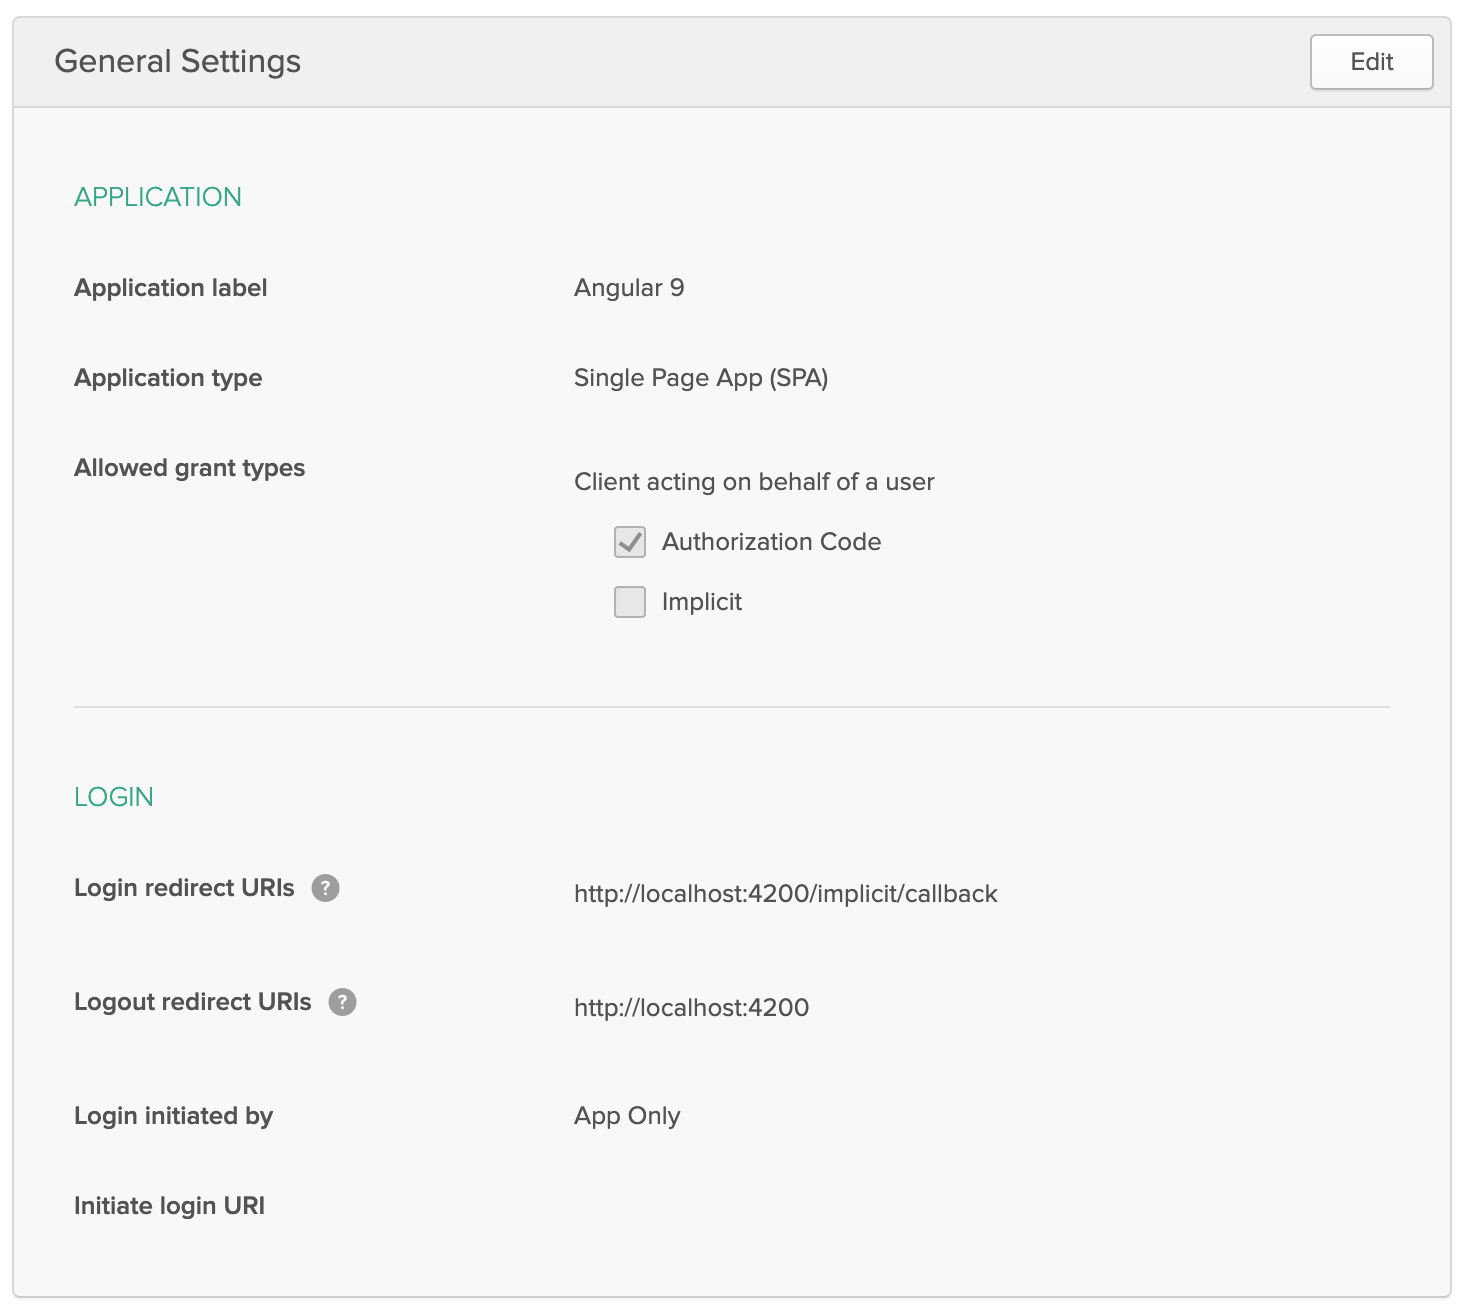
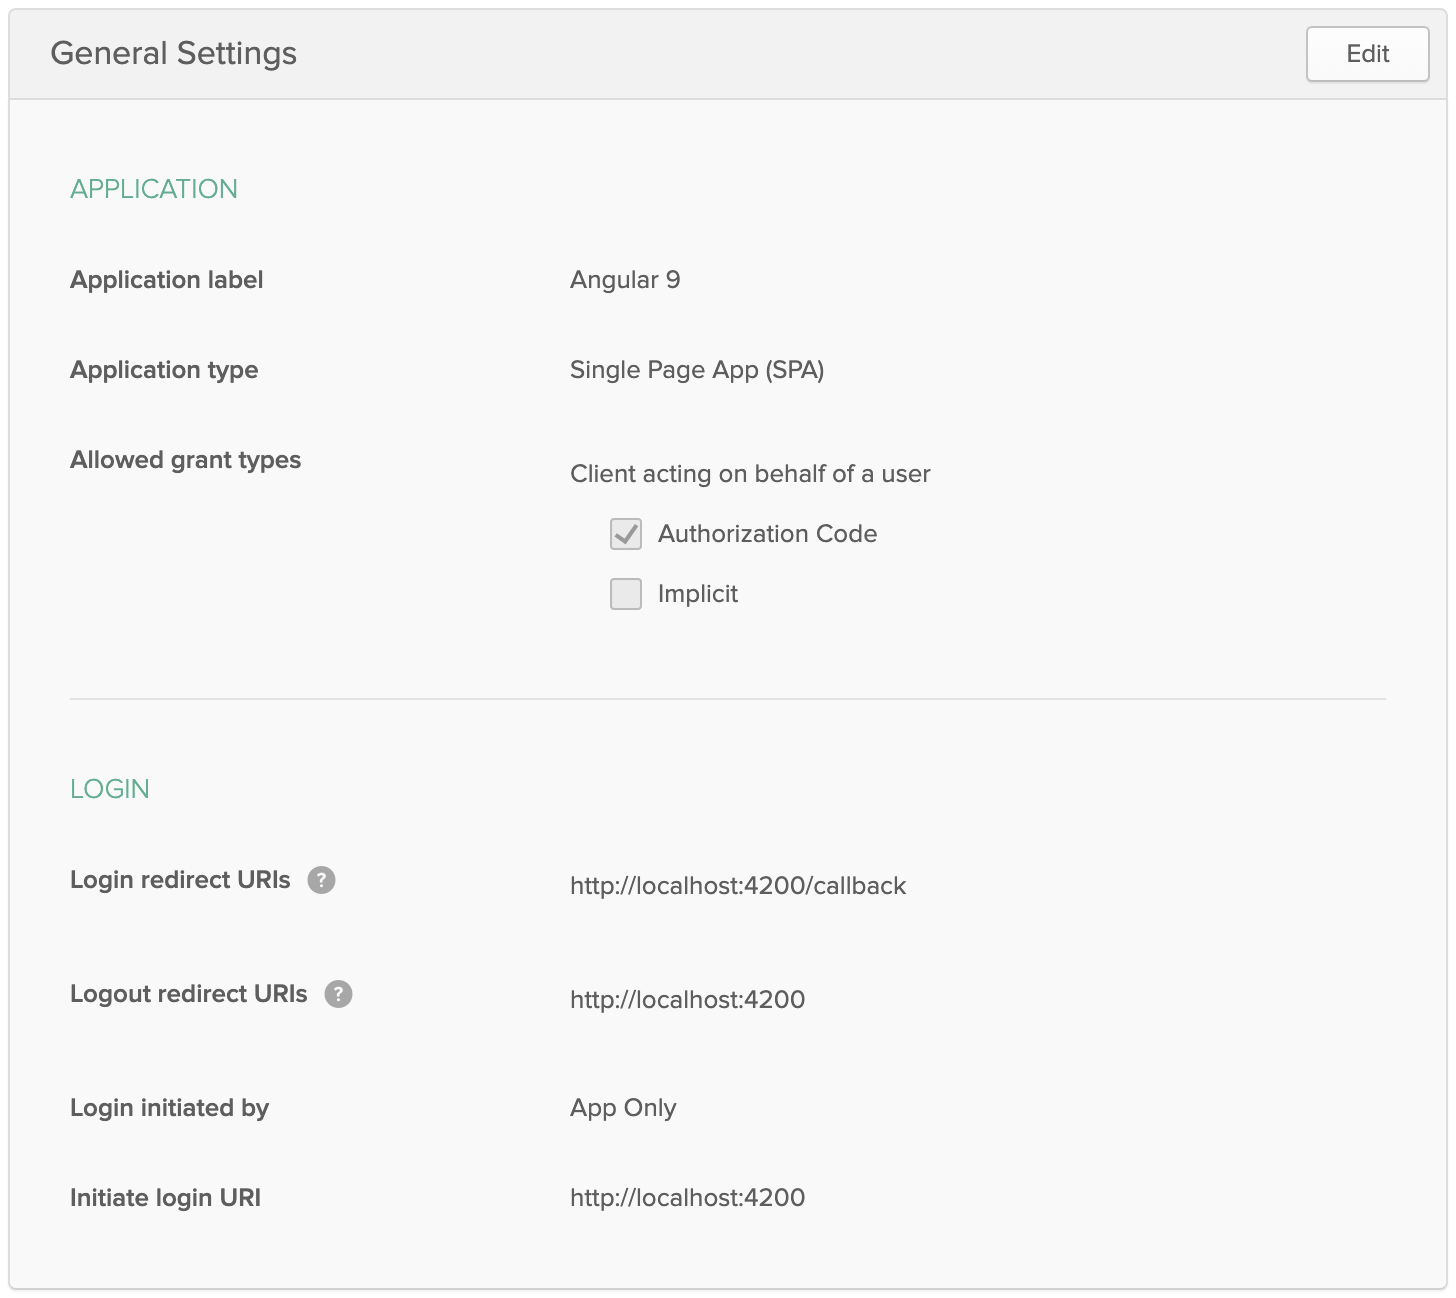
Update for PKCE

diff --git a/src/app/auth-routing.module.ts b/src/app/auth-routing.module.ts
@@ -10,7 +10,7 @@ import { AuthInterceptor } from './shared/okta/auth.interceptor';
 const oktaConfig = {
   issuer: 'https://dev-133320.okta.com/oauth2/default',
   redirectUri: window.location.origin + '/implicit/callback',
-  clientId: '0oa2w2zv9l1YRhucY357',
+  clientId: '0oa44bt3tfrlm0e6z357',
   pkce: true,
   scopes: ['openid', 'profile']
 };
